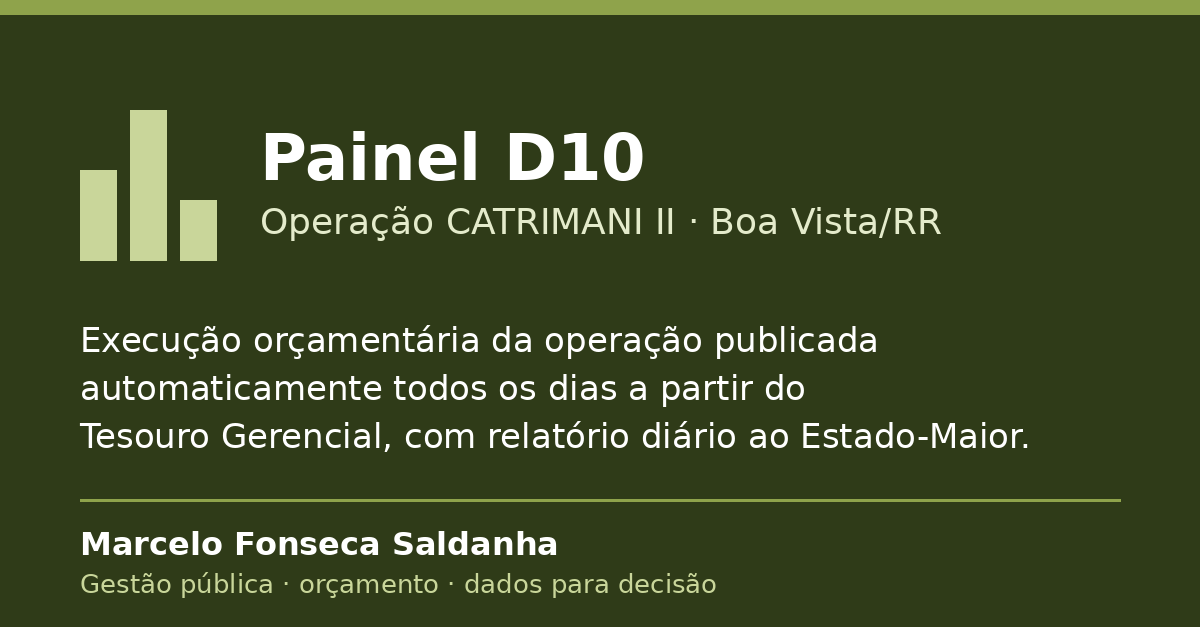
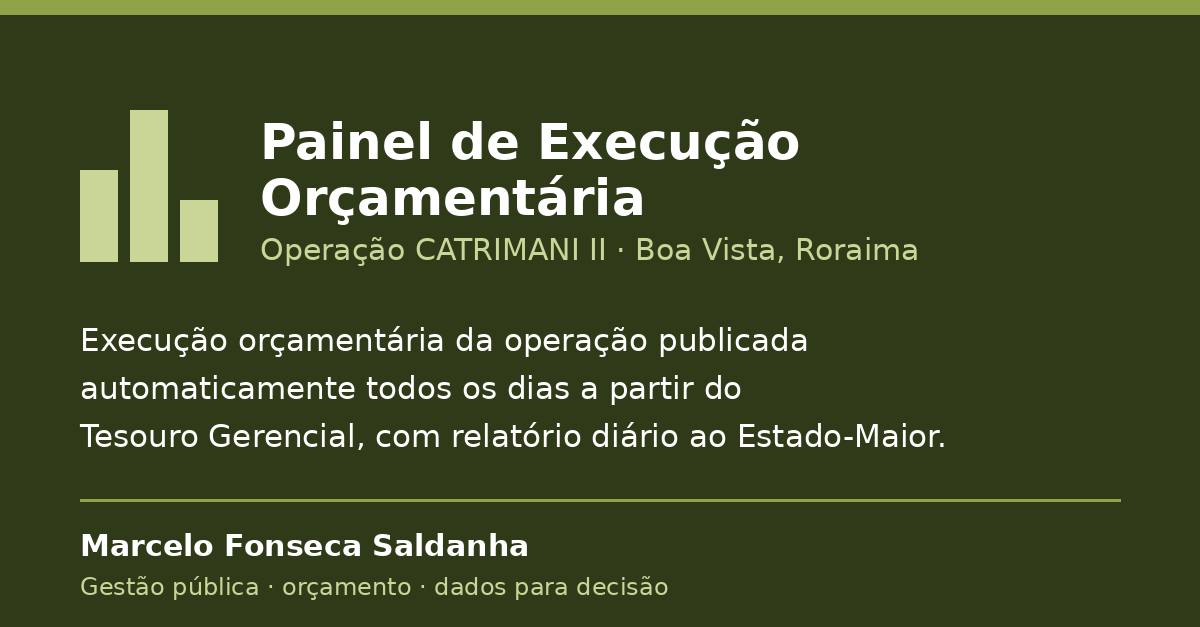
Cartão do painel sem a sigla D10: Painel de Execução Orçamentária (nova URL /painel-orcamentario/ para o LinkedIn)
Claude-Session: https://claude.ai/code/session_01VEfZCh43nSSB1hCZyYsj4n

diff --git a/painel-orcamentario/index.html b/painel-orcamentario/index.html
@@ -1,0 +1,42 @@
+<!doctype html>
+<html lang="pt-BR">
+<head>
+<meta charset="utf-8">
+<meta name="viewport" content="width=device-width,initial-scale=1">
+<title>Painel de Execução Orçamentária · Operação CATRIMANI II</title>
+<meta name="description" content="Execução orçamentária da Operação CATRIMANI II publicada automaticamente todos os dias a partir do Tesouro Gerencial, com relatório diário ao Estado-Maior. Desenvolvido por Marcelo Fonseca Saldanha.">
+<link rel="canonical" href="https://marcelosaldanha-1978.github.io/painel-orcamentario/">
+<meta property="og:type" content="website">
+<meta property="og:locale" content="pt_BR">
+<meta property="og:site_name" content="Marcelo Fonseca Saldanha">
+<meta property="og:title" content="Painel de Execução Orçamentária · Operação CATRIMANI II">
+<meta property="og:description" content="Execução orçamentária da operação publicada automaticamente todos os dias a partir do Tesouro Gerencial, com relatório diário ao Estado-Maior.">
+<meta property="og:url" content="https://marcelosaldanha-1978.github.io/painel-orcamentario/">
+<meta property="og:image" content="https://marcelosaldanha-1978.github.io/painel-orcamentario/og.png">
+<meta property="og:image:secure_url" content="https://marcelosaldanha-1978.github.io/painel-orcamentario/og.png">
+<meta property="og:image:type" content="image/png">
+<meta property="og:image:width" content="1200">
+<meta property="og:image:height" content="627">
+<meta property="og:image:alt" content="Painel de Execução Orçamentária · Operação CATRIMANI II — execução orçamentária publicada todos os dias a partir do Tesouro Gerencial">
+<meta name="author" content="Marcelo Fonseca Saldanha">
+<meta name="twitter:card" content="summary_large_image">
+<meta name="twitter:title" content="Painel de Execução Orçamentária · Operação CATRIMANI II">
+<meta name="twitter:description" content="Execução orçamentária publicada todos os dias a partir do Tesouro Gerencial.">
+<meta name="twitter:image" content="https://marcelosaldanha-1978.github.io/painel-orcamentario/og.png">
+<style>
+:root{--bg:#EEF0EA;--fg:#1d2410;--ac:#4B5E26}
+body{margin:0;font-family:system-ui,-apple-system,Segoe UI,Roboto,sans-serif;background:var(--bg);color:var(--fg);display:flex;min-height:100vh;align-items:center;justify-content:center;padding:16px}
+main{max-width:560px;text-align:center}
+img{width:100%;height:auto;border-radius:8px}
+a.b{display:inline-block;margin-top:20px;background:var(--ac);color:#fff;padding:12px 22px;border-radius:6px;text-decoration:none;font-weight:600}
+</style>
+<script>setTimeout(function(){location.replace('https://marcelosaldanha-1978.github.io/painel-21em-catrimani/')},1500);</script>
+</head>
+<body>
+<main>
+<img src="og.png" alt="Painel de Execução Orçamentária · Operação CATRIMANI II">
+<p>Abrindo o painel…</p>
+<a class="b" href="https://marcelosaldanha-1978.github.io/painel-21em-catrimani/">Abrir o painel</a>
+</main>
+</body>
+</html>

diff --git a/painel/index.html b/painel/index.html
@@ -3,13 +3,13 @@
 <head>
 <meta charset="utf-8">
 <meta name="viewport" content="width=device-width,initial-scale=1">
-<title>Painel D10 · Operação CATRIMANI II</title>
+<title>Painel de Execução Orçamentária · Operação CATRIMANI II</title>
 <meta name="description" content="Execução orçamentária da Operação CATRIMANI II publicada automaticamente todos os dias a partir do Tesouro Gerencial, com relatório diário ao Estado-Maior. Desenvolvido por Marcelo Fonseca Saldanha.">
 <link rel="canonical" href="https://marcelosaldanha-1978.github.io/painel/">
 <meta property="og:type" content="website">
 <meta property="og:locale" content="pt_BR">
 <meta property="og:site_name" content="Marcelo Fonseca Saldanha">
-<meta property="og:title" content="Painel D10 · Operação CATRIMANI II">
+<meta property="og:title" content="Painel de Execução Orçamentária · Operação CATRIMANI II">
 <meta property="og:description" content="Execução orçamentária da operação publicada automaticamente todos os dias a partir do Tesouro Gerencial, com relatório diário ao Estado-Maior.">
 <meta property="og:url" content="https://marcelosaldanha-1978.github.io/painel/">
 <meta property="og:image" content="https://marcelosaldanha-1978.github.io/painel/og.png">
@@ -17,10 +17,10 @@
 <meta property="og:image:type" content="image/png">
 <meta property="og:image:width" content="1200">
 <meta property="og:image:height" content="627">
-<meta property="og:image:alt" content="Painel D10 · Operação CATRIMANI II — execução orçamentária publicada todos os dias a partir do Tesouro Gerencial">
+<meta property="og:image:alt" content="Painel de Execução Orçamentária · Operação CATRIMANI II — execução orçamentária publicada todos os dias a partir do Tesouro Gerencial">
 <meta name="author" content="Marcelo Fonseca Saldanha">
 <meta name="twitter:card" content="summary_large_image">
-<meta name="twitter:title" content="Painel D10 · Operação CATRIMANI II">
+<meta name="twitter:title" content="Painel de Execução Orçamentária · Operação CATRIMANI II">
 <meta name="twitter:description" content="Execução orçamentária publicada todos os dias a partir do Tesouro Gerencial.">
 <meta name="twitter:image" content="https://marcelosaldanha-1978.github.io/painel/og.png">
 <style>
@@ -34,9 +34,9 @@ a.b{display:inline-block;margin-top:20px;background:var(--ac);color:#fff;padding
 </head>
 <body>
 <main>
-<img src="og.png" alt="Painel D10 · Operação CATRIMANI II">
+<img src="og.png" alt="Painel de Execução Orçamentária · Operação CATRIMANI II">
 <p>Abrindo o painel…</p>
-<a class="b" href="https://marcelosaldanha-1978.github.io/painel-21em-catrimani/">Abrir o Painel D10</a>
+<a class="b" href="https://marcelosaldanha-1978.github.io/painel-21em-catrimani/">Abrir o painel</a>
 </main>
 </body>
 </html>
